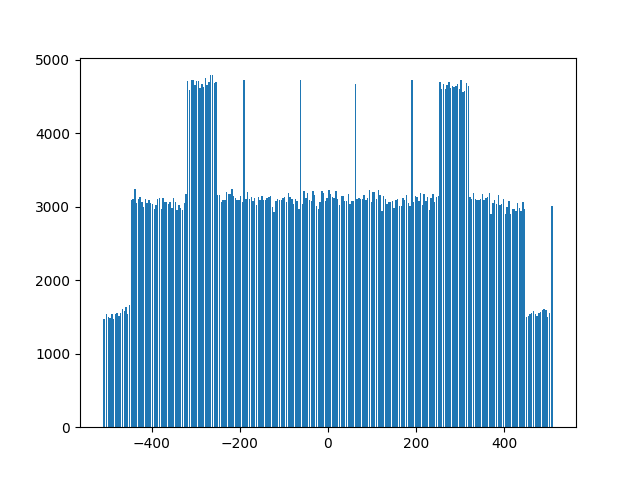
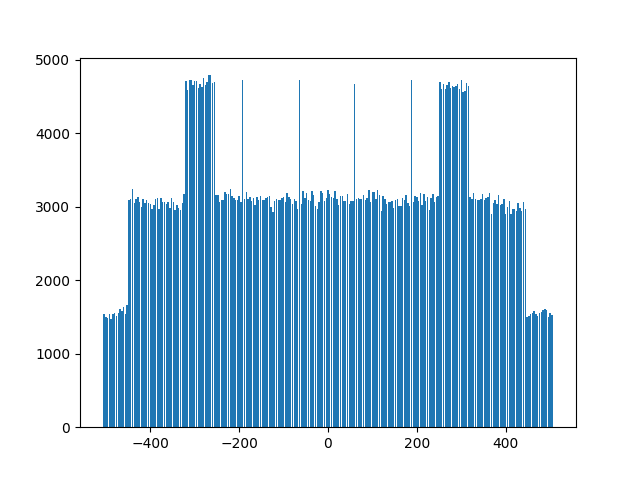
added plots

Changed region(s): [[0.3438, 0.1875, 0.6875, 0.9375], [0.1562, 0.1562, 0.3438, 0.9375], [0.7188, 0.4062, 0.875, 0.9375]]

diff --git a/Analysis/analysis1d.py b/Analysis/analysis1d.py
@@ -1,6 +1,7 @@
 import numpy as np
 import matplotlib.pyplot  as plt
 from numpy import loadtxt
+import random
 import os, fnmatch
 import re
 
@@ -63,9 +64,29 @@ plt.figure(1)
 plt.plot(T,c)
 plt.figure(2)
 plt.plot(T,u)
+
+
+bincenters = 0.5*(e[1:] + e[:-1])
 plt.figure(3)
-plt.hist(E, bins=e, rwidth=0.8,normed=False)
+plt.hist(E, bins=bincenters, rwidth=0.8,normed=False)
 plt.figure(4)
-plt.hist(E.flatten(), bins=e, rwidth=0.8,normed=False)
+plt.hist(E.flatten(), bins=bincenters, rwidth=0.8,normed=False)
+
+
+
+# Build a uniform distribution of energies
+E_chunks = [e[i:i + cols] for i in range(0, len(e), cols)]
+E_edges  = [[E_chunks[i][0], E_chunks[i][-1]] for i in range(0, cols)]
+print(E_chunks[-1][:])
+print(E_edges[-1][:])
+
+E_uniform = E
+for i in range(0,rows):
+    for j in range(0,cols):
+        if E[i][j] < E_edges[j][0] or E[i][j] > E_edges[j][-1]:
+            E_uniform [i][j] = np.nan
+plt.figure(5)
+plt.hist(E_uniform[~np.isnan(E_uniform)], bins=bincenters, align='mid', rwidth=0.8, normed=False)
+
 
 plt.show()
